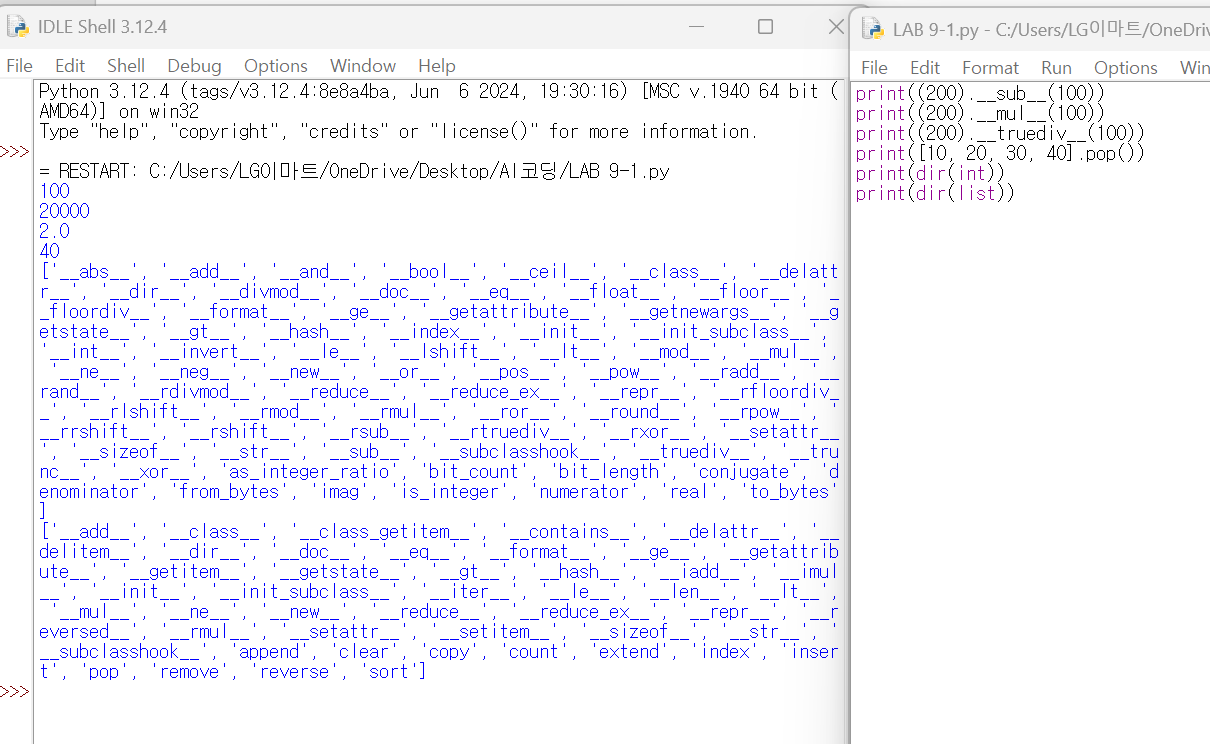
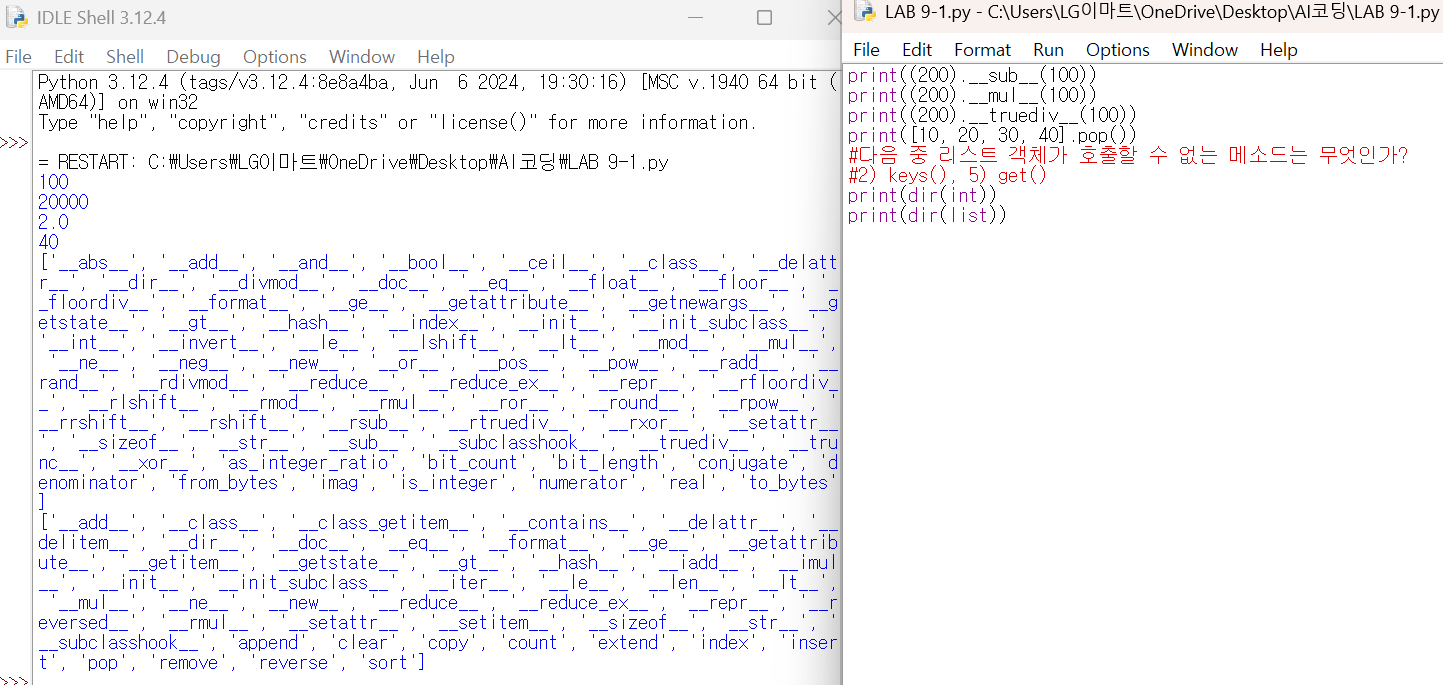
Add files via upload

diff --git a/LAB 9-9.py b/LAB 9-9.py
@@ -1,19 +1,23 @@
+import math
 class Vector:
     def __init__(self, x, y):
         self.x = x
         self.y = y
 
+    def magnitude(self):
+        return math.sqrt(self.x**2 + self.y**2)
+
     def __gt__(self, other):
-        return self.x > other.y
+        return self.magnitude() > other.magnitude()
 
     def __ge__(self, other):
-        return self.x >= other.y
+        return self.magnitude() >= other.magnitude()
 
     def __lt__(self, other):
-        return self.x < other.y
+        return self.magnitude() < other.magnitude()
 
     def __le__(self, other):
-        return self.x <= other.y
+        return self.magnitude() <= other.magnitude()
 
 v1 = Vector(30, 40)
 v2 = Vector(10, 20)

diff --git a/LAB 9-1.py b/LAB 9-1.py
@@ -2,5 +2,7 @@ print((200).__sub__(100))
 print((200).__mul__(100))
 print((200).__truediv__(100))
 print([10, 20, 30, 40].pop())
+#다음 중 리스트 객체가 호출할 수 없는 메소드는 무엇인가?
+#2) keys(), 5) get()
 print(dir(int))
 print(dir(list))
